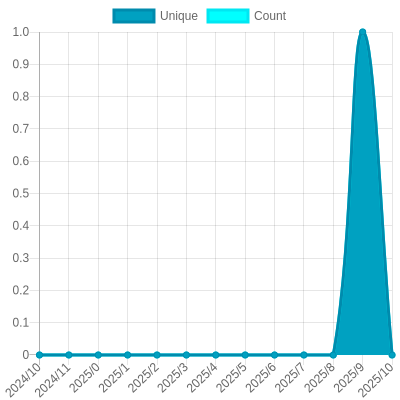
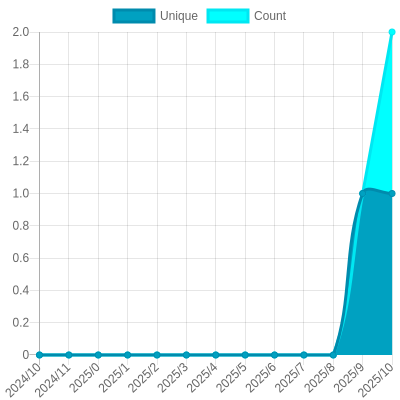
Update views

diff --git a/readme/869986340/year.md b/readme/869986340/year.md
@@ -23,10 +23,10 @@
 			<code>2024/11/1</code>
 		</td>
 		<td>
-			<code>0</code>
+			<code>1</code>
 		</td>
 		<td>
-			<code>0</code>
+			<code>2</code>
 		</td>
 	</tr>
 	<tr>
@@ -164,7 +164,7 @@
 </table>
 
 </details>
-<small><i>Last updated on 2024/11/11 6:32 AM UTC</i></small>
+<small><i>Last updated on 2024/11/11 12:45 PM UTC</i></small>
 
 ## ✂Copy and 📋 Paste
 ### SVG Badge

diff --git a/README.md b/README.md
@@ -293,7 +293,7 @@ The project created and maintained by [gayanvoice](https://github.com/gayanvoice
 	</tr>
 </table>
 
-<small><i>Last updated on 2024/11/11 6:33 AM UTC</i></small>
+<small><i>Last updated on 2024/11/11 12:47 PM UTC</i></small>
 
 ## ✂Copy and 📋 Paste
 ### Total Views Badge

diff --git a/readme/803763063/year.md b/readme/803763063/year.md
@@ -164,7 +164,7 @@
 </table>
 
 </details>
-<small><i>Last updated on 2024/11/11 6:33 AM UTC</i></small>
+<small><i>Last updated on 2024/11/11 12:47 PM UTC</i></small>
 
 ## ✂Copy and 📋 Paste
 ### SVG Badge

diff --git a/readme/811493075/year.md b/readme/811493075/year.md
@@ -164,7 +164,7 @@
 </table>
 
 </details>
-<small><i>Last updated on 2024/11/11 6:33 AM UTC</i></small>
+<small><i>Last updated on 2024/11/11 12:47 PM UTC</i></small>
 
 ## ✂Copy and 📋 Paste
 ### SVG Badge

diff --git a/readme/817721168/year.md b/readme/817721168/year.md
@@ -164,7 +164,7 @@
 </table>
 
 </details>
-<small><i>Last updated on 2024/11/11 6:33 AM UTC</i></small>
+<small><i>Last updated on 2024/11/11 12:47 PM UTC</i></small>
 
 ## ✂Copy and 📋 Paste
 ### SVG Badge

diff --git a/readme/856885304/year.md b/readme/856885304/year.md
@@ -164,7 +164,7 @@
 </table>
 
 </details>
-<small><i>Last updated on 2024/11/11 6:32 AM UTC</i></small>
+<small><i>Last updated on 2024/11/11 12:46 PM UTC</i></small>
 
 ## ✂Copy and 📋 Paste
 ### SVG Badge

diff --git a/readme/857295408/year.md b/readme/857295408/year.md
@@ -164,7 +164,7 @@
 </table>
 
 </details>
-<small><i>Last updated on 2024/11/11 6:33 AM UTC</i></small>
+<small><i>Last updated on 2024/11/11 12:47 PM UTC</i></small>
 
 ## ✂Copy and 📋 Paste
 ### SVG Badge

diff --git a/readme/857322064/year.md b/readme/857322064/year.md
@@ -164,7 +164,7 @@
 </table>
 
 </details>
-<small><i>Last updated on 2024/11/11 6:33 AM UTC</i></small>
+<small><i>Last updated on 2024/11/11 12:47 PM UTC</i></small>
 
 ## ✂Copy and 📋 Paste
 ### SVG Badge

diff --git a/readme/857352945/year.md b/readme/857352945/year.md
@@ -164,7 +164,7 @@
 </table>
 
 </details>
-<small><i>Last updated on 2024/11/11 6:32 AM UTC</i></small>
+<small><i>Last updated on 2024/11/11 12:46 PM UTC</i></small>
 
 ## ✂Copy and 📋 Paste
 ### SVG Badge

diff --git a/readme/858019578/year.md b/readme/858019578/year.md
@@ -164,7 +164,7 @@
 </table>
 
 </details>
-<small><i>Last updated on 2024/11/11 6:32 AM UTC</i></small>
+<small><i>Last updated on 2024/11/11 12:46 PM UTC</i></small>
 
 ## ✂Copy and 📋 Paste
 ### SVG Badge

diff --git a/readme/858311554/year.md b/readme/858311554/year.md
@@ -164,7 +164,7 @@
 </table>
 
 </details>
-<small><i>Last updated on 2024/11/11 6:32 AM UTC</i></small>
+<small><i>Last updated on 2024/11/11 12:46 PM UTC</i></small>
 
 ## ✂Copy and 📋 Paste
 ### SVG Badge

diff --git a/readme/858679728/year.md b/readme/858679728/year.md
@@ -164,7 +164,7 @@
 </table>
 
 </details>
-<small><i>Last updated on 2024/11/11 6:32 AM UTC</i></small>
+<small><i>Last updated on 2024/11/11 12:46 PM UTC</i></small>
 
 ## ✂Copy and 📋 Paste
 ### SVG Badge
